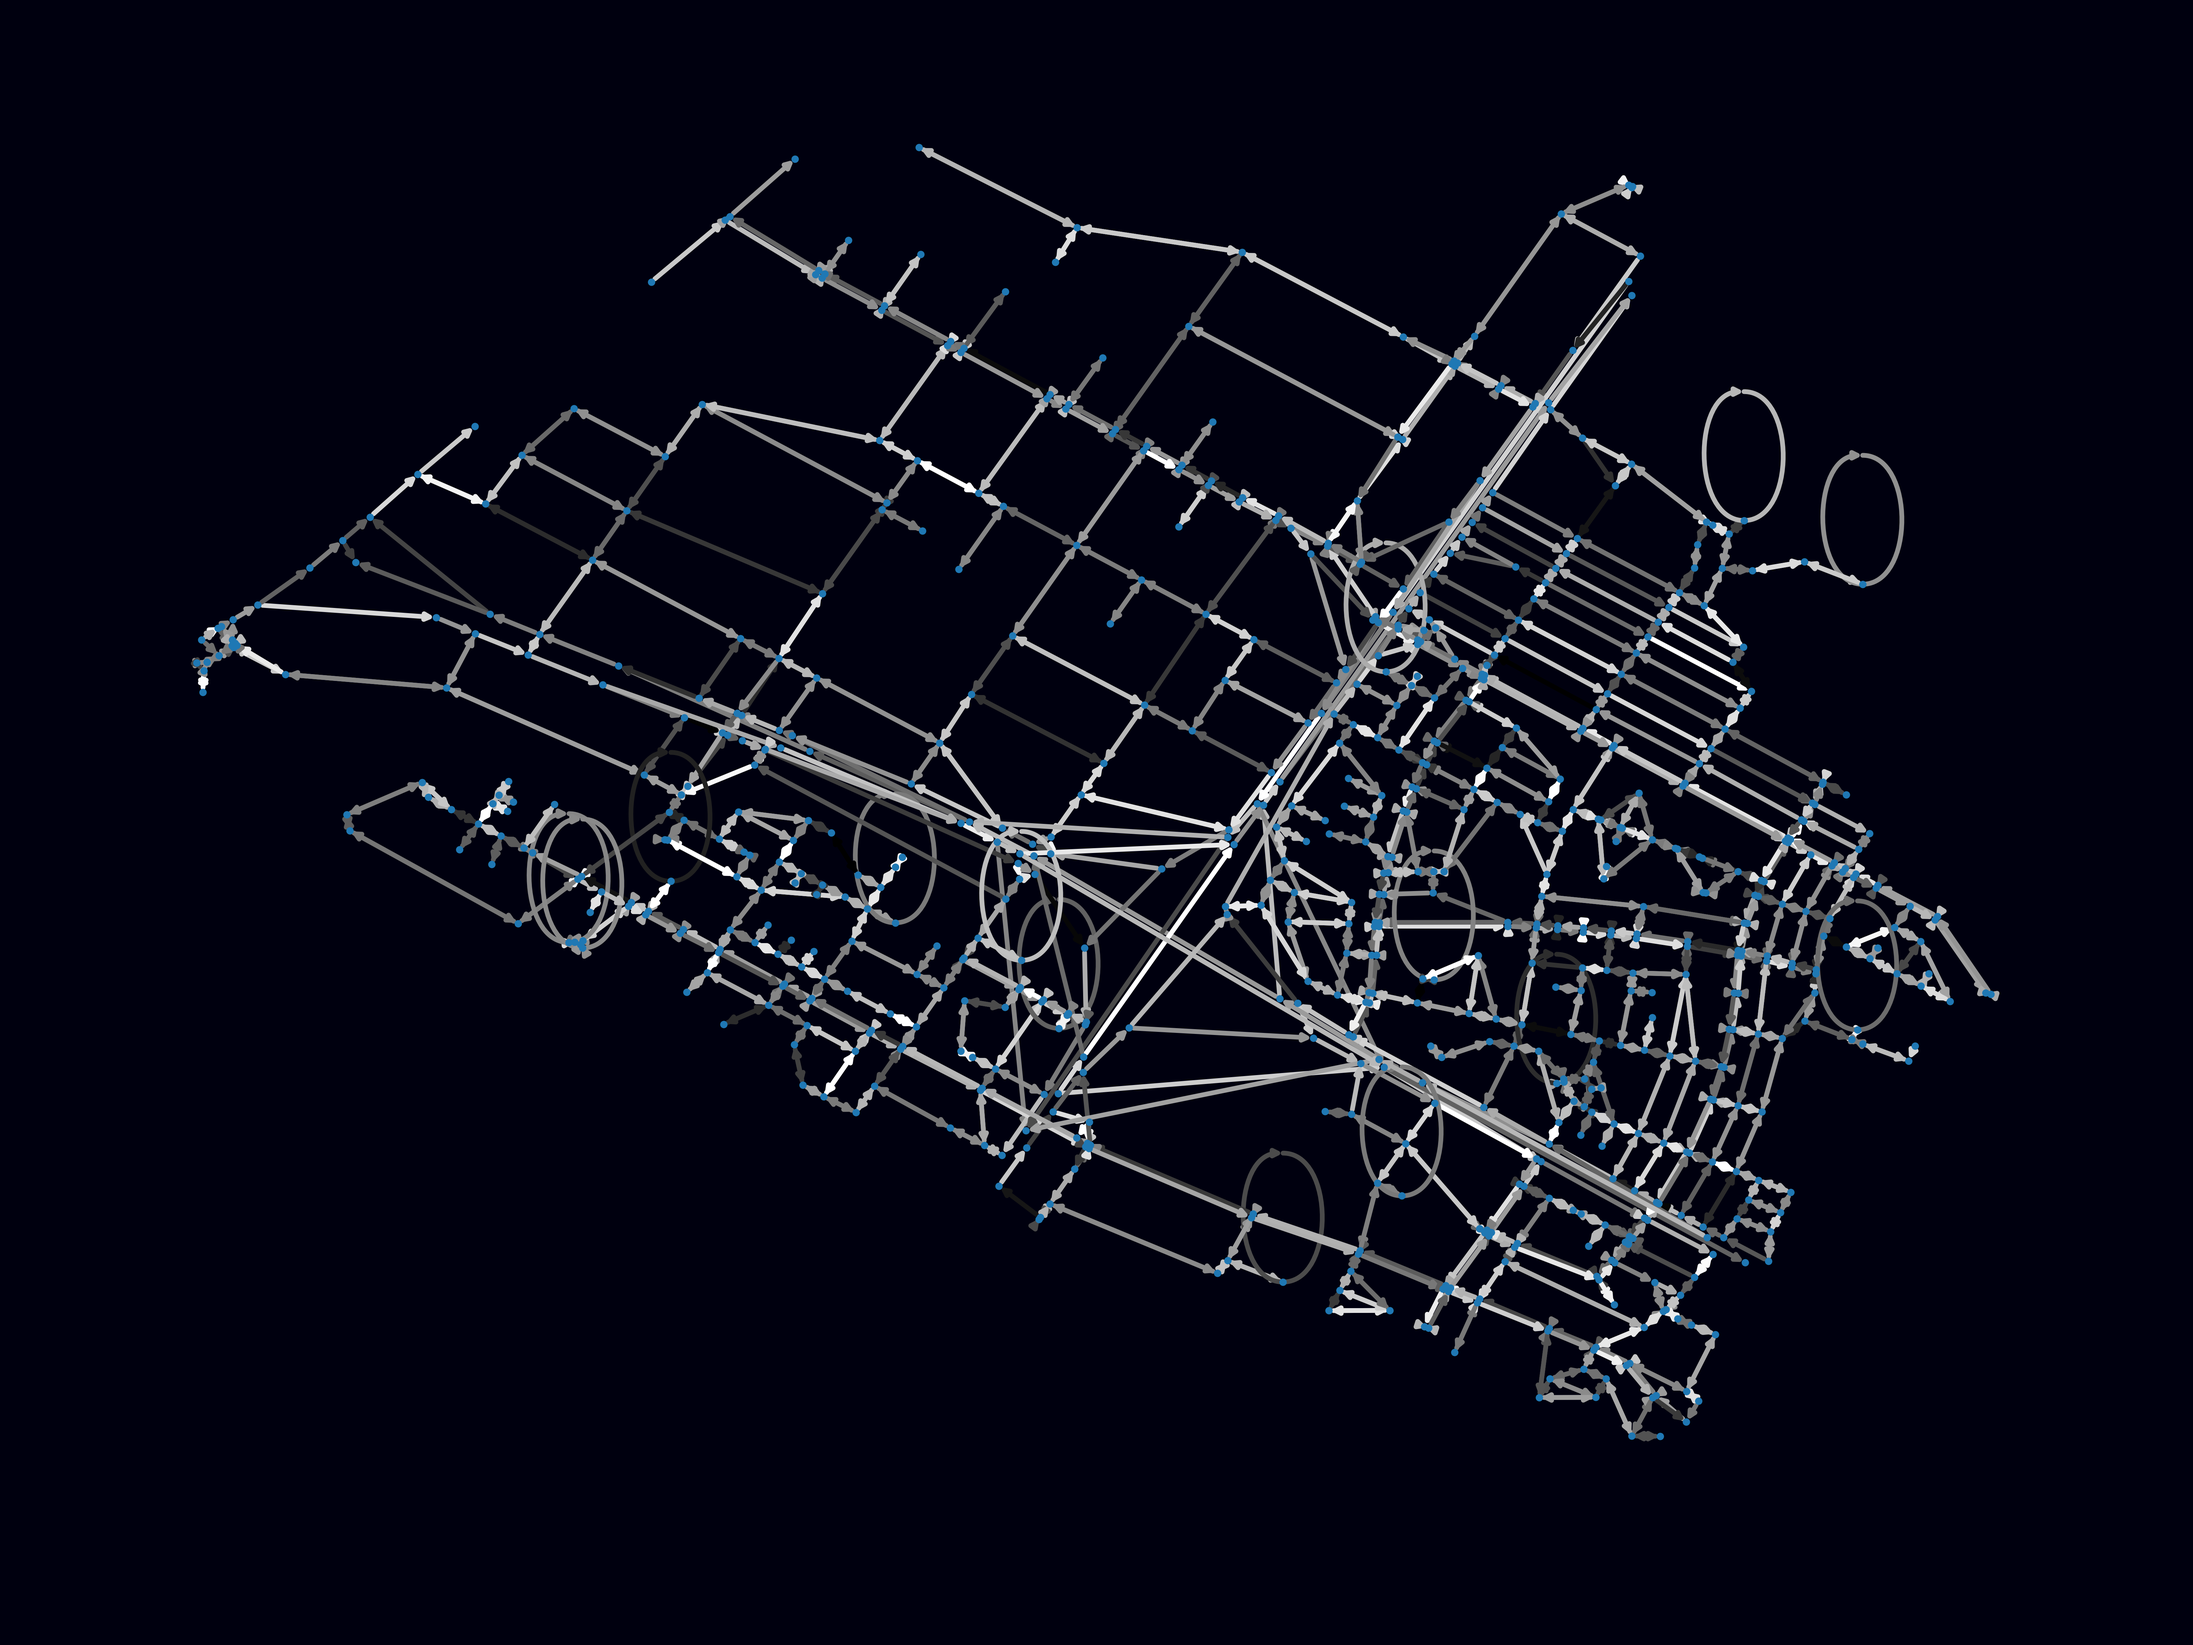
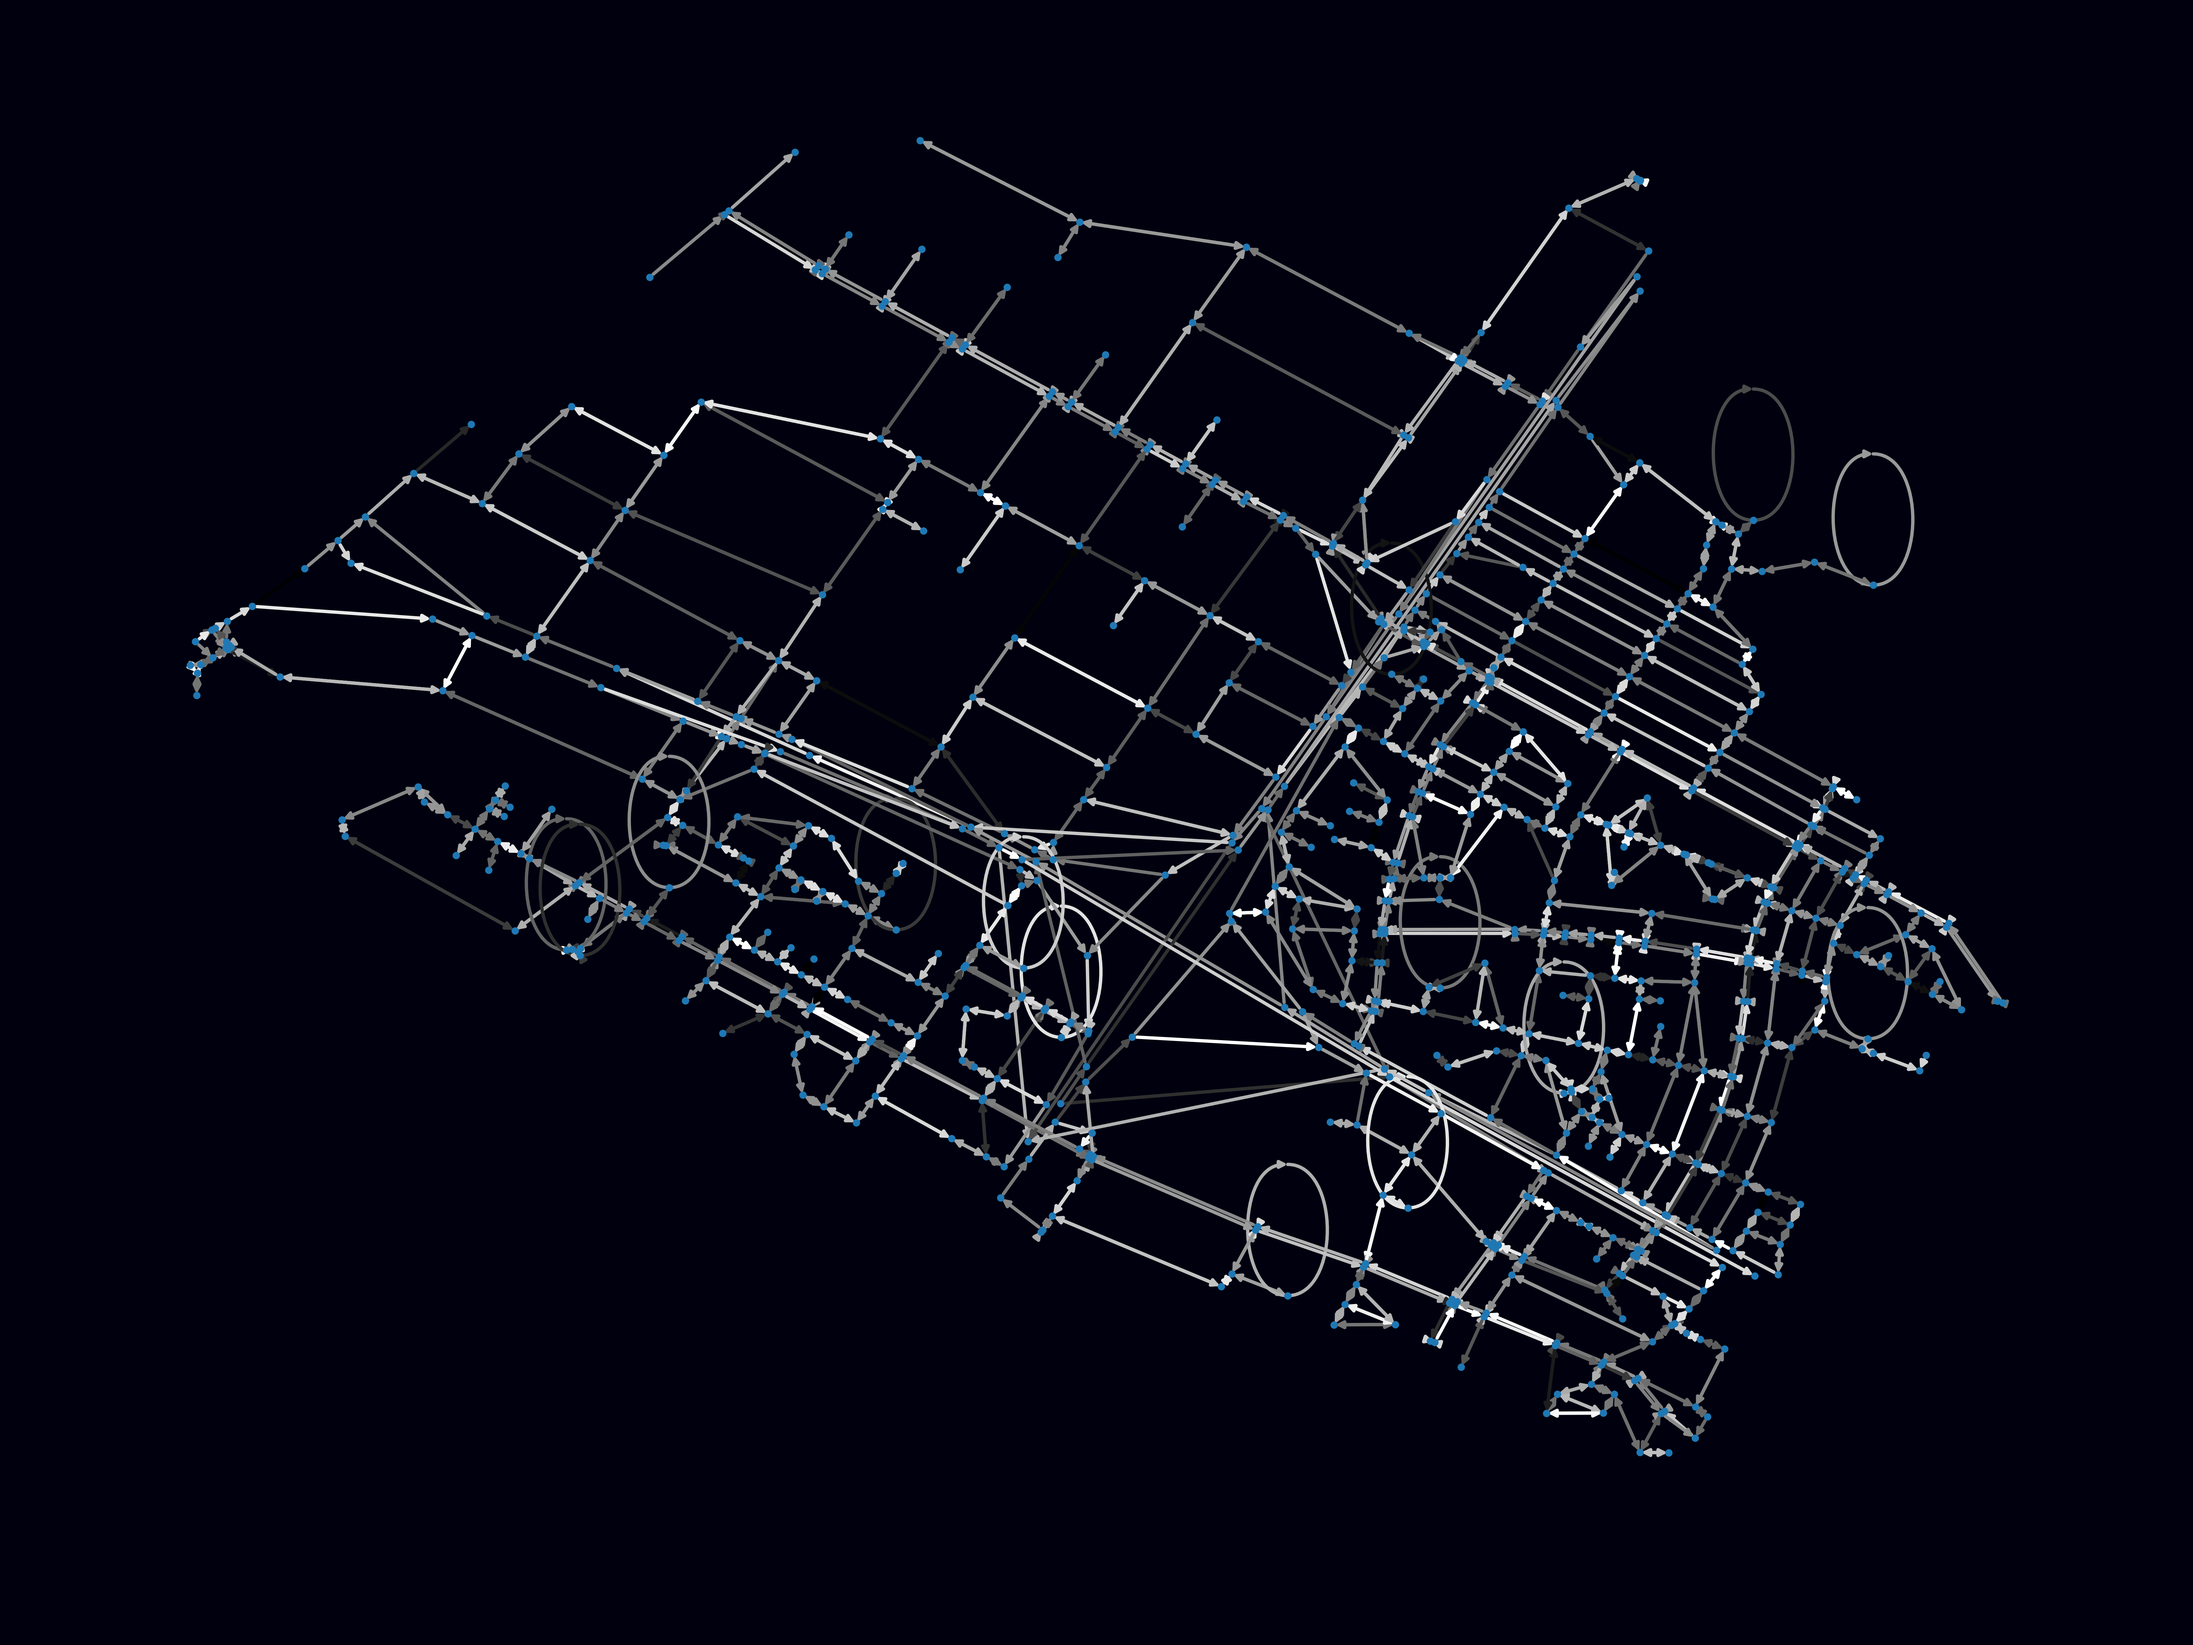
1

diff --git a/practical/data.py b/practical/data.py
@@ -3,6 +3,9 @@ import matplotlib.pyplot as plt
 import osmnx.distance as distance
 import os.path
 import math
+import random
+from practical.colors import colors
+import time
 
 # comparer random temps + n + point de départ + calculer complexite des algo + chercher des temps 
 # notebook, push cele, refaire la partie théorique, faire plein de tests 
@@ -49,7 +52,7 @@ def plot_graph(name, subname, graph, position):
     }
 
     fig = plt.figure()
-    nx.draw(graph, **options, width=0.2)
+    nx.draw(graph, **options, width=0.4)
     fig.set_facecolor("#FFFFFF")
     plt.savefig("imgs/" + name + "/" + name + "_" + subname + ".png", dpi=1000)
     plt.close()
@@ -79,7 +82,7 @@ def plot_snow(name, subname, G, graph, position):
         i += 1
 
     fig = plt.figure()
-    nx.draw(graph, edge_color=edge_color, width=1, **options)
+    nx.draw(graph, edge_color=edge_color, width=0.7, **options)
     fig.set_facecolor("#00000F")
     plt.savefig("imgs/" + name + "/" + name + "_" + subname + "_snow.png", dpi=1000)
     plt.close()
@@ -122,7 +125,60 @@ def plot_cycle(name, subName, originalNxGraph, cycle, G_cycle, G_nodes):
 
     X = directed_graph_to_nxgraph(G_cycle)
 
-    nx.draw(X, pos=position, **options, width=0.2, with_labels=True, labels=labels, font_size=1)
+    nx.draw(X, pos=position, **options, width=0.4, with_labels=True, labels=labels, font_size=1)
+    plt.savefig("imgs/" + name + "/" + name + "_" + subName + ".png", dpi=1000)
+    plt.close()
+
+def plot_cycle_split(name, subName, originalNxGraph, cycle, G_cycle, G_nodes, plows):
+    options = {
+        "node_size": 0.3,
+        "arrowsize": 3,
+        "min_source_margin": 1,
+    }
+
+    positionsx = nx.get_node_attributes(originalNxGraph, "x")
+    positionsy = nx.get_node_attributes(originalNxGraph, "y")
+    position = {}
+    org_position = {}
+    for pos in positionsx:
+        a = G_nodes[pos]
+        position[a] = (positionsx[pos], positionsy[pos])
+        org_position[pos] = (positionsx[pos], positionsy[pos])
+
+    labels = {}
+    for i in range(0, len(cycle)):
+        key = cycle[i]
+        if key in labels:
+            labels[key] += "\n" + str(i)
+        else:
+            labels[key] = str(i)
+
+    plt.figure()
+    nx.draw(originalNxGraph, pos=org_position, **options, width=0.2)
+
+    edge_color = []
+    i = 0
+    r = random.uniform(0, 1)
+    g = random.uniform(0, 1)
+    b = random.uniform(0, 1)
+
+    steps_per_plow = round(len(G_cycle.edges) / plows)
+
+    step = 0
+    n = 0
+    for edge in G_cycle.edges:
+        color = list(colors.values())[n]
+        edge_color.append(color)
+        i += 1
+        if step > steps_per_plow:
+            step = 0
+            n += 1
+        step += 1
+    options["edge_color"] = edge_color
+
+    X = directed_graph_to_nxgraph(G_cycle)
+
+    nx.draw(X, pos=position, **options, width=0.4, with_labels=True, labels=labels, font_size=1)
     plt.savefig("imgs/" + name + "/" + name + "_" + subName + ".png", dpi=1000)
     plt.close()
 
@@ -143,7 +199,7 @@ def find_key(d, value):
     return None
 
 # save the calculated data in a file
-def save_data(name, cycle, snow):
+def save_data(name, cycle, snow, plows):
     total_snow_volume = 0
     total_distance_km = 0
 
@@ -171,7 +227,7 @@ def save_data(name, cycle, snow):
         total_distance_km += (weight / 1000)
 
     total_snow_volume /= 100
-    t = total_distance_km / avg_speed
+    t = (total_distance_km / avg_speed)
     s = avg_fuel_consumption_per_h * t
 
     lines = [
@@ -179,13 +235,13 @@ def save_data(name, cycle, snow):
         "snow : " + str(round(total_snow_volume, 2)) + "m3\n",
         "fuel spent : " + str(round(s, 2)) + "L\n"
         "fuel cost : " + str(round(s * avg_fuel_cost, 2)) + "$\n"
-        "time : " + hours_to_HMS(t)
+        "time : " + hours_to_HMS(t / plows)
         ]
     with open("imgs/" + name + "/" + name + "_data.txt", 'w') as f:
         f.writelines(lines)
 
 # plot and process the data in a directed way
-def process_directed(name, data, snow):
+def process_directed(name, data, snow, snow_plow_per_district):
     if not(os.path.isdir("imgs")):
         os.mkdir("imgs")
     if not(os.path.isdir("imgs/" + name)):
@@ -226,15 +282,17 @@ def process_directed(name, data, snow):
     print("Is the graph Eulerian:", G.is_eulerian(), "/", "Edges count:", len(G.edges))
 
     # find an eulerian cycle in a directed graph
+    print("Finding a cycle")
     cycle_directed = find_eulerian_cycle_directed(G.n, G.edges, 0)
 
     # convert the node list to a directed graph (cycle graph)
-    print("Finding a cycle")
     G_cycle_directed = directed_graph_from_cycle(G.n, cycle_directed)
 
+    print("Plotting the cycle")
     # plot the cycle graph
     plot_cycle(name, "directed_cycle", directedNxGraph, cycle_directed, G_cycle_directed, G_nodes)
-    save_data(name, cycle_directed, G.snow)
+    plot_cycle_split(name, "directed_cycle_split", directedNxGraph, cycle_directed, G_cycle_directed, G_nodes, snow_plow_per_district)
+    save_data(name, cycle_directed, G.snow, snow_plow_per_district)
 
 # plot and process the data in a undirected way
 def process_undirected(name, data):
@@ -287,6 +345,7 @@ def process_undirected(name, data):
     # convert the node list to a directed graph (cycle graph)
     G_cycle_undirected = directed_graph_from_cycle(G.n, cycle_undirected)
 
+    print("Plotting the cycle")
     # plot the cycle graph
     plot_cycle(name, "undirected_cycle", undirectedNxGraph, cycle_undirected, G_cycle_undirected, G_nodes)
 

diff --git a/practical/colors.py b/practical/colors.py
@@ -1,0 +1,141 @@
+colors = {
+'aliceblue':            '#F0F8FF',
+'antiquewhite':         '#FAEBD7',
+'aqua':                 '#00FFFF',
+'aquamarine':           '#7FFFD4',
+'azure':                '#F0FFFF',
+'beige':                '#F5F5DC',
+'bisque':               '#FFE4C4',
+'black':                '#000000',
+'blanchedalmond':       '#FFEBCD',
+'blue':                 '#0000FF',
+'blueviolet':           '#8A2BE2',
+'brown':                '#A52A2A',
+'burlywood':            '#DEB887',
+'cadetblue':            '#5F9EA0',
+'chartreuse':           '#7FFF00',
+'chocolate':            '#D2691E',
+'coral':                '#FF7F50',
+'cornflowerblue':       '#6495ED',
+'cornsilk':             '#FFF8DC',
+'crimson':              '#DC143C',
+'cyan':                 '#00FFFF',
+'darkblue':             '#00008B',
+'darkcyan':             '#008B8B',
+'darkgoldenrod':        '#B8860B',
+'darkgray':             '#A9A9A9',
+'darkgreen':            '#006400',
+'darkkhaki':            '#BDB76B',
+'darkmagenta':          '#8B008B',
+'darkolivegreen':       '#556B2F',
+'darkorange':           '#FF8C00',
+'darkorchid':           '#9932CC',
+'darkred':              '#8B0000',
+'darksalmon':           '#E9967A',
+'darkseagreen':         '#8FBC8F',
+'darkslateblue':        '#483D8B',
+'darkslategray':        '#2F4F4F',
+'darkturquoise':        '#00CED1',
+'darkviolet':           '#9400D3',
+'deeppink':             '#FF1493',
+'deepskyblue':          '#00BFFF',
+'dimgray':              '#696969',
+'dodgerblue':           '#1E90FF',
+'firebrick':            '#B22222',
+'floralwhite':          '#FFFAF0',
+'forestgreen':          '#228B22',
+'fuchsia':              '#FF00FF',
+'gainsboro':            '#DCDCDC',
+'ghostwhite':           '#F8F8FF',
+'gold':                 '#FFD700',
+'goldenrod':            '#DAA520',
+'gray':                 '#808080',
+'green':                '#008000',
+'greenyellow':          '#ADFF2F',
+'honeydew':             '#F0FFF0',
+'hotpink':              '#FF69B4',
+'indianred':            '#CD5C5C',
+'indigo':               '#4B0082',
+'ivory':                '#FFFFF0',
+'khaki':                '#F0E68C',
+'lavender':             '#E6E6FA',
+'lavenderblush':        '#FFF0F5',
+'lawngreen':            '#7CFC00',
+'lemonchiffon':         '#FFFACD',
+'lightblue':            '#ADD8E6',
+'lightcoral':           '#F08080',
+'lightcyan':            '#E0FFFF',
+'lightgoldenrodyellow': '#FAFAD2',
+'lightgreen':           '#90EE90',
+'lightgray':            '#D3D3D3',
+'lightpink':            '#FFB6C1',
+'lightsalmon':          '#FFA07A',
+'lightseagreen':        '#20B2AA',
+'lightskyblue':         '#87CEFA',
+'lightslategray':       '#778899',
+'lightsteelblue':       '#B0C4DE',
+'lightyellow':          '#FFFFE0',
+'lime':                 '#00FF00',
+'limegreen':            '#32CD32',
+'linen':                '#FAF0E6',
+'magenta':              '#FF00FF',
+'maroon':               '#800000',
+'mediumaquamarine':     '#66CDAA',
+'mediumblue':           '#0000CD',
+'mediumorchid':         '#BA55D3',
+'mediumpurple':         '#9370DB',
+'mediumseagreen':       '#3CB371',
+'mediumslateblue':      '#7B68EE',
+'mediumspringgreen':    '#00FA9A',
+'mediumturquoise':      '#48D1CC',
+'mediumvioletred':      '#C71585',
+'midnightblue':         '#191970',
+'mintcream':            '#F5FFFA',
+'mistyrose':            '#FFE4E1',
+'moccasin':             '#FFE4B5',
+'navajowhite':          '#FFDEAD',
+'navy':                 '#000080',
+'oldlace':              '#FDF5E6',
+'olive':                '#808000',
+'olivedrab':            '#6B8E23',
+'orange':               '#FFA500',
+'orangered':            '#FF4500',
+'orchid':               '#DA70D6',
+'palegoldenrod':        '#EEE8AA',
+'palegreen':            '#98FB98',
+'paleturquoise':        '#AFEEEE',
+'palevioletred':        '#DB7093',
+'papayawhip':           '#FFEFD5',
+'peachpuff':            '#FFDAB9',
+'peru':                 '#CD853F',
+'pink':                 '#FFC0CB',
+'plum':                 '#DDA0DD',
+'powderblue':           '#B0E0E6',
+'purple':               '#800080',
+'red':                  '#FF0000',
+'rosybrown':            '#BC8F8F',
+'royalblue':            '#4169E1',
+'saddlebrown':          '#8B4513',
+'salmon':               '#FA8072',
+'sandybrown':           '#FAA460',
+'seagreen':             '#2E8B57',
+'seashell':             '#FFF5EE',
+'sienna':               '#A0522D',
+'silver':               '#C0C0C0',
+'skyblue':              '#87CEEB',
+'slateblue':            '#6A5ACD',
+'slategray':            '#708090',
+'snow':                 '#FFFAFA',
+'springgreen':          '#00FF7F',
+'steelblue':            '#4682B4',
+'tan':                  '#D2B48C',
+'teal':                 '#008080',
+'thistle':              '#D8BFD8',
+'tomato':               '#FF6347',
+'turquoise':            '#40E0D0',
+'violet':               '#EE82EE',
+'wheat':                '#F5DEB3',
+'white':                '#FFFFFF',
+'whitesmoke':           '#F5F5F5',
+'yellow':               '#FFFF00',
+'yellowgreen':          '#9ACD32'}

diff --git a/example_for_all.py b/example_for_all.py
@@ -6,11 +6,15 @@ import matplotlib
 
 matplotlib.use("Agg")
 
+snow_plows = 2200
+snow_plow_per_district = round(np.floor(snow_plows / len(districts)))
+print("We dispose of", snow_plow_per_district, "plows per district")
+
 def subprocess(district):
     data = getData(district)
 
     snow = process_undirected(district, data)
-    process_directed(district, data, snow)
+    process_directed(district, data, snow, snow_plow_per_district)
 
 for dis in districts:
     subprocess(dis)

diff --git a/example_for_one.py b/example_for_one.py
@@ -4,6 +4,8 @@ import matplotlib
 # MATPLOTLIB IS NOT THREAD SAFE
 
 matplotlib.use("Agg")
+snow_plows = 2200
+snow_plow_per_district = round(np.floor(snow_plows / 19))
 
 data = getData("Anjou")
 
@@ -11,4 +13,4 @@ snow = process_undirected("Anjou", data)
 
 #############################################################################################
 
-process_directed("Anjou", data, snow)
+process_directed("Anjou", data, snow, snow_plow_per_district)
